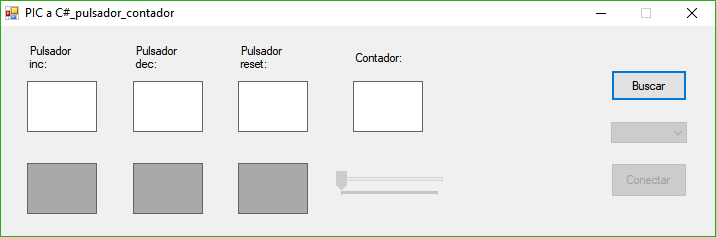
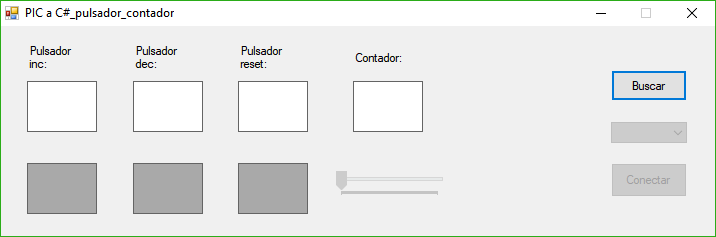
694

diff --git a/Microcontroladores/1 - PIC/5 - SENA-FVCC/0 SENA-FVCC.html b/Microcontroladores/1 - PIC/5 - SENA-FVCC/0 SENA-FVCC.html
@@ -646,7 +646,7 @@ style="border: rgb(255,255,255) 1px solid; background-color: rgb(255,255,255); c
     </tr>
     <tr>
       <td><span class="MsoNormal1" style="margin-bottom:.0001pt;text-align:justify;line-height:normal;background:white;"><span class="MsoNormal1" style="margin-bottom:.0001pt;text-align:justify;line-height:normal;background:white;">&nbsp; &nbsp;&nbsp;&nbsp;&nbsp;&nbsp;&nbsp;&nbsp;&nbsp;&nbsp;&nbsp; </span>
-          <input type="button" target="_self" onClick="window.location='11.2.7 Serial_print_Serial_read.html'" value="12.1.1 Sensor de temperatura DS1820"
+          <input type="button" target="_self" onClick="window.location='12.1.1 Sensor de temperatura DS1820.html'" value="12.1.1 Sensor de temperatura DS1820"
 style="cursor:pointer; border: rgb(255,255,255) 1px solid; background-color: rgb(255,255,255); color: rgb(0,64,255); font-family: Verdana, Arial; font-weight: bold; font-size: 16px"/>
       </span></td>
     </tr>
@@ -1609,7 +1609,7 @@ style="border: rgb(255,255,255) 1px solid; background-color: rgb(255,255,255); c
 </span></span></span></strong></a></span></span></p>
 <p class="MsoNormal" style="margin-bottom:.0001pt;text-align:justify;line-height:normal;background:white;">&nbsp;</p>
 <p class="MsoNormal" style="margin-bottom:.0001pt;text-align:justify;line-height:normal;background:white;"><span class="MsoNormal1" style="margin-bottom:.0001pt;text-align:justify;line-height:normal;background:white;">
-  <input type="button" target="_self" onClick="window.location='11.2.7 Serial_print_Serial_read.html'" value="12.1.1 Sensor de temperatura DS1820"
+  <input type="button" target="_self" onClick="window.location='12.1.1 Sensor de temperatura DS1820.html'" value="12.1.1 Sensor de temperatura DS1820"
 style="cursor:pointer; border: rgb(255,255,255) 1px solid; background-color: rgb(255,255,255); color: rgb(0,64,255); font-family: Verdana, Arial; font-weight: bold; font-size: 16px"/>
 </span></p>
 <p class="MsoNormal" style="margin-bottom:.0001pt;text-align:justify;line-height:normal;background:white;">&nbsp;</p>

diff --git a/Investigación/Investigacion.html b/Investigación/Investigacion.html
@@ -430,17 +430,10 @@ style="border: rgb(255,255,255) 1px solid; background-color: rgb(255,255,255); c
   <tbody>
     <tr>
       <td width="380"><span class="MsoNormal1" style="margin-bottom:.0001pt;text-align:justify;line-height:normal;background:white;">
-        <input type="button" target="_self" onClick="window.location=''" value="Proyectos"
-style="border: rgb(255,255,255) 1px solid; background-color: rgb(255,255,255); color: rgb(100,100,100); font-family: Verdana, Arial; font-weight: bold; font-size: 16px"/>
-      </span></td>
-      <td width="120">&nbsp;</td>
-    </tr>
-    <tr>
-      <td><span class="MsoNormal1" style="margin-bottom:.0001pt;text-align:justify;line-height:normal;background:white;">
         <input type="button" target="_self" value="2015"
 style="border: rgb(255,255,255) 1px solid; background-color: rgb(255,255,255); color: rgb(0,0,0); font-family: Verdana, Arial; font-weight: bold; font-size: 16px"/>
       </span></td>
-      <td>&nbsp;</td>
+      <td width="120">&nbsp;</td>
     </tr>
     <tr>
       <td><span class="MsoNormal1" style="margin-bottom:.0001pt;text-align:justify;line-height:normal;background:white;">&nbsp;&nbsp;&nbsp;&nbsp;<span class="MsoNormal1" style="margin-bottom:.0001pt;text-align:justify;line-height:normal;background:white;"> </span></span><span class="MsoNormal1" style="margin-bottom:.0001pt;text-align:justify;line-height:normal;background:white;">
@@ -561,6 +554,7 @@ style="cursor:pointer; border: rgb(255,255,255) 1px solid; background-color: rgb
     </tr>
   </tbody>
 </table>
+<p>&nbsp;</p>
 <p><span class="MsoNormal1" style="margin-bottom:.0001pt;text-align:justify;line-height:normal;background:white;">
   <input type="button" target="_self" value="Reconocimientos"
 style="border: rgb(255,255,255) 1px solid; background-color: rgb(255,255,255); color: rgb(0,0,0); font-family: Verdana, Arial; font-weight: bold; font-size: 16px"/>

diff --git a/Microcontroladores/1 - PIC/5 - SENA-FVCC/11.1.3 Micro a C_pulsador_contador_sensor.html b/Microcontroladores/1 - PIC/5 - SENA-FVCC/11.1.3 Micro a C_pulsador_contador_sensor.html
@@ -159,7 +159,7 @@ p.MsoNormal1 {	margin-top: 0cm;
 <p class="MsoNormal" style="margin-bottom:.0001pt;text-align:justify;line-height:normal;background:white;">&nbsp;</p>
 <p class="MsoNormal" style="margin-bottom:.0001pt;text-align:justify;line-height:normal;background:white;"><span class="MsoNormal" style="margin-bottom:.0001pt;text-align:justify;line-height:normal;background:white;"><span class="MsoNormal" style="margin-bottom:.0001pt;text-align:justify;line-height:normal;background:white;"><span class="MsoNormal" style="margin-bottom:.0001pt;text-align:justify;line-height:normal;background:white;"><strong><span style="font-family:'Arial','sans-serif'; font-size:12.0pt; ">Programa Sharp Develop</span></strong></span></span></span></p>
 <p class="MsoNormal" style="margin-bottom:.0001pt;text-align:justify;line-height:normal;background:white;">&nbsp;</p>
-<p class="MsoNormal" style="margin-bottom:.0001pt;text-align:justify;line-height:normal;background:white;"><span class="MsoNormal" style="margin-bottom:.0001pt;text-align:justify;line-height:normal;background:white;"><img src="../img/Micro a C_pulsador_contador_sensor_2.png" width="717" height="237" alt=""/></span></p>
+<p class="MsoNormal" style="margin-bottom:.0001pt;text-align:justify;line-height:normal;background:white;"><span class="MsoNormal" style="margin-bottom:.0001pt;text-align:justify;line-height:normal;background:white;"><img src="../img/Micro a C_pulsador_contador_sensor_2.png" width="716" height="237" alt=""/></span></p>
 <p class="MsoNormal" style="margin-bottom:.0001pt;text-align:justify;line-height:normal;background:white;">&nbsp;</p>
 <p class="MsoNormal"><span style="line-height:107%; font-size:10.0pt; color:green; ">/*</span><span style="line-height:107%; font-size:10.0pt; "><br>
   <span style="color:green; ">&nbsp;* Created by SharpDevelop.</span><br>

diff --git a/Microcontroladores/1 - PIC/5 - SENA-FVCC/11.1.2 Micro a C_pulsador_contador.html b/Microcontroladores/1 - PIC/5 - SENA-FVCC/11.1.2 Micro a C_pulsador_contador.html
@@ -150,7 +150,7 @@ p.MsoNormal1 {	margin-top: 0cm;
 <p class="MsoNormal" style="margin-bottom:.0001pt;line-height:normal;text-autospace:none;">&nbsp;</p>
 <p class="MsoNormal" style="margin-bottom:.0001pt;text-align:justify;line-height:normal;background:white;"><span class="MsoNormal" style="margin-bottom:.0001pt;text-align:justify;line-height:normal;background:white;"><span class="MsoNormal" style="margin-bottom:.0001pt;text-align:justify;line-height:normal;background:white;"><span class="MsoNormal" style="margin-bottom:.0001pt;text-align:justify;line-height:normal;background:white;"><strong><span style="font-family:'Arial','sans-serif'; font-size:12.0pt; ">Programa Sharp Develop</span></strong></span></span></span></p>
 <p class="MsoNormal" style="margin-bottom:.0001pt;text-align:justify;line-height:normal;background:white;">&nbsp;</p>
-<p class="MsoNormal" style="margin-bottom:.0001pt;text-align:justify;line-height:normal;background:white;"><img src="../img/Micro a C_pulsador_contador_2.png" width="717" height="237" alt=""/></p>
+<p class="MsoNormal" style="margin-bottom:.0001pt;text-align:justify;line-height:normal;background:white;"><img src="../img/Micro a C_pulsador_contador_2.png" width="716" height="237" alt=""/></p>
 <p class="MsoNormal" style="margin-bottom:.0001pt;text-align:justify;line-height:normal;background:white;">&nbsp;</p>
 <p class="MsoNormal" style="margin-bottom:.0001pt;text-align:justify;line-height:normal;background:white;"> <span style="color:#008000; ">/*</span><br>
   <span style="color:#008000; ">&nbsp;* Created by SharpDevelop.</span><br>

diff --git a/Investigación/Poster RREDSI 2018.html b/Investigación/Poster RREDSI 2018.html
@@ -281,7 +281,7 @@ style="cursor:pointer; border: rgb(255,255,255) 1px solid; background-color: rgb
 style="cursor:pointer; border: rgb(255,255,255) 1px solid; background-color: rgb(255,255,255); color: rgb(0,64,255); font-family: Verdana, Arial; font-weight: bold; font-size: 12px"/>
       </span><span class="MsoNormal1" style="margin-bottom:.0001pt;text-align:justify;line-height:normal;background:white;">
        &nbsp;&nbsp;&nbsp;&nbsp;&nbsp;
-       <input type="button" target="_blank" onClick="window.open('https://drive.google.com/file/d/1yR02JFS3jlV-x_LAWPgG6P1QsMBAOLcP/view?usp=sharing')" value="educativas de primaria y  secundaria"
+       <input type="button" target="_blank" onClick="window.open('https://drive.google.com/file/d/1yR02JFS3jlV-x_LAWPgG6P1QsMBAOLcP/view?usp=sharing')" value="educativas de primaria y secundaria"
 style="cursor:pointer; border: rgb(255,255,255) 1px solid; background-color: rgb(255,255,255); color: rgb(0,64,255); font-family: Verdana, Arial; font-weight: bold; font-size: 12px"/>
       </span></span></span></td>
       <td><span class="MsoNormal1" style="margin-bottom:.0001pt;text-align:justify;line-height:normal;background:white;"><span class="MsoNormal1" style="margin-bottom:.0001pt;text-align:justify;line-height:normal;background:white;">
